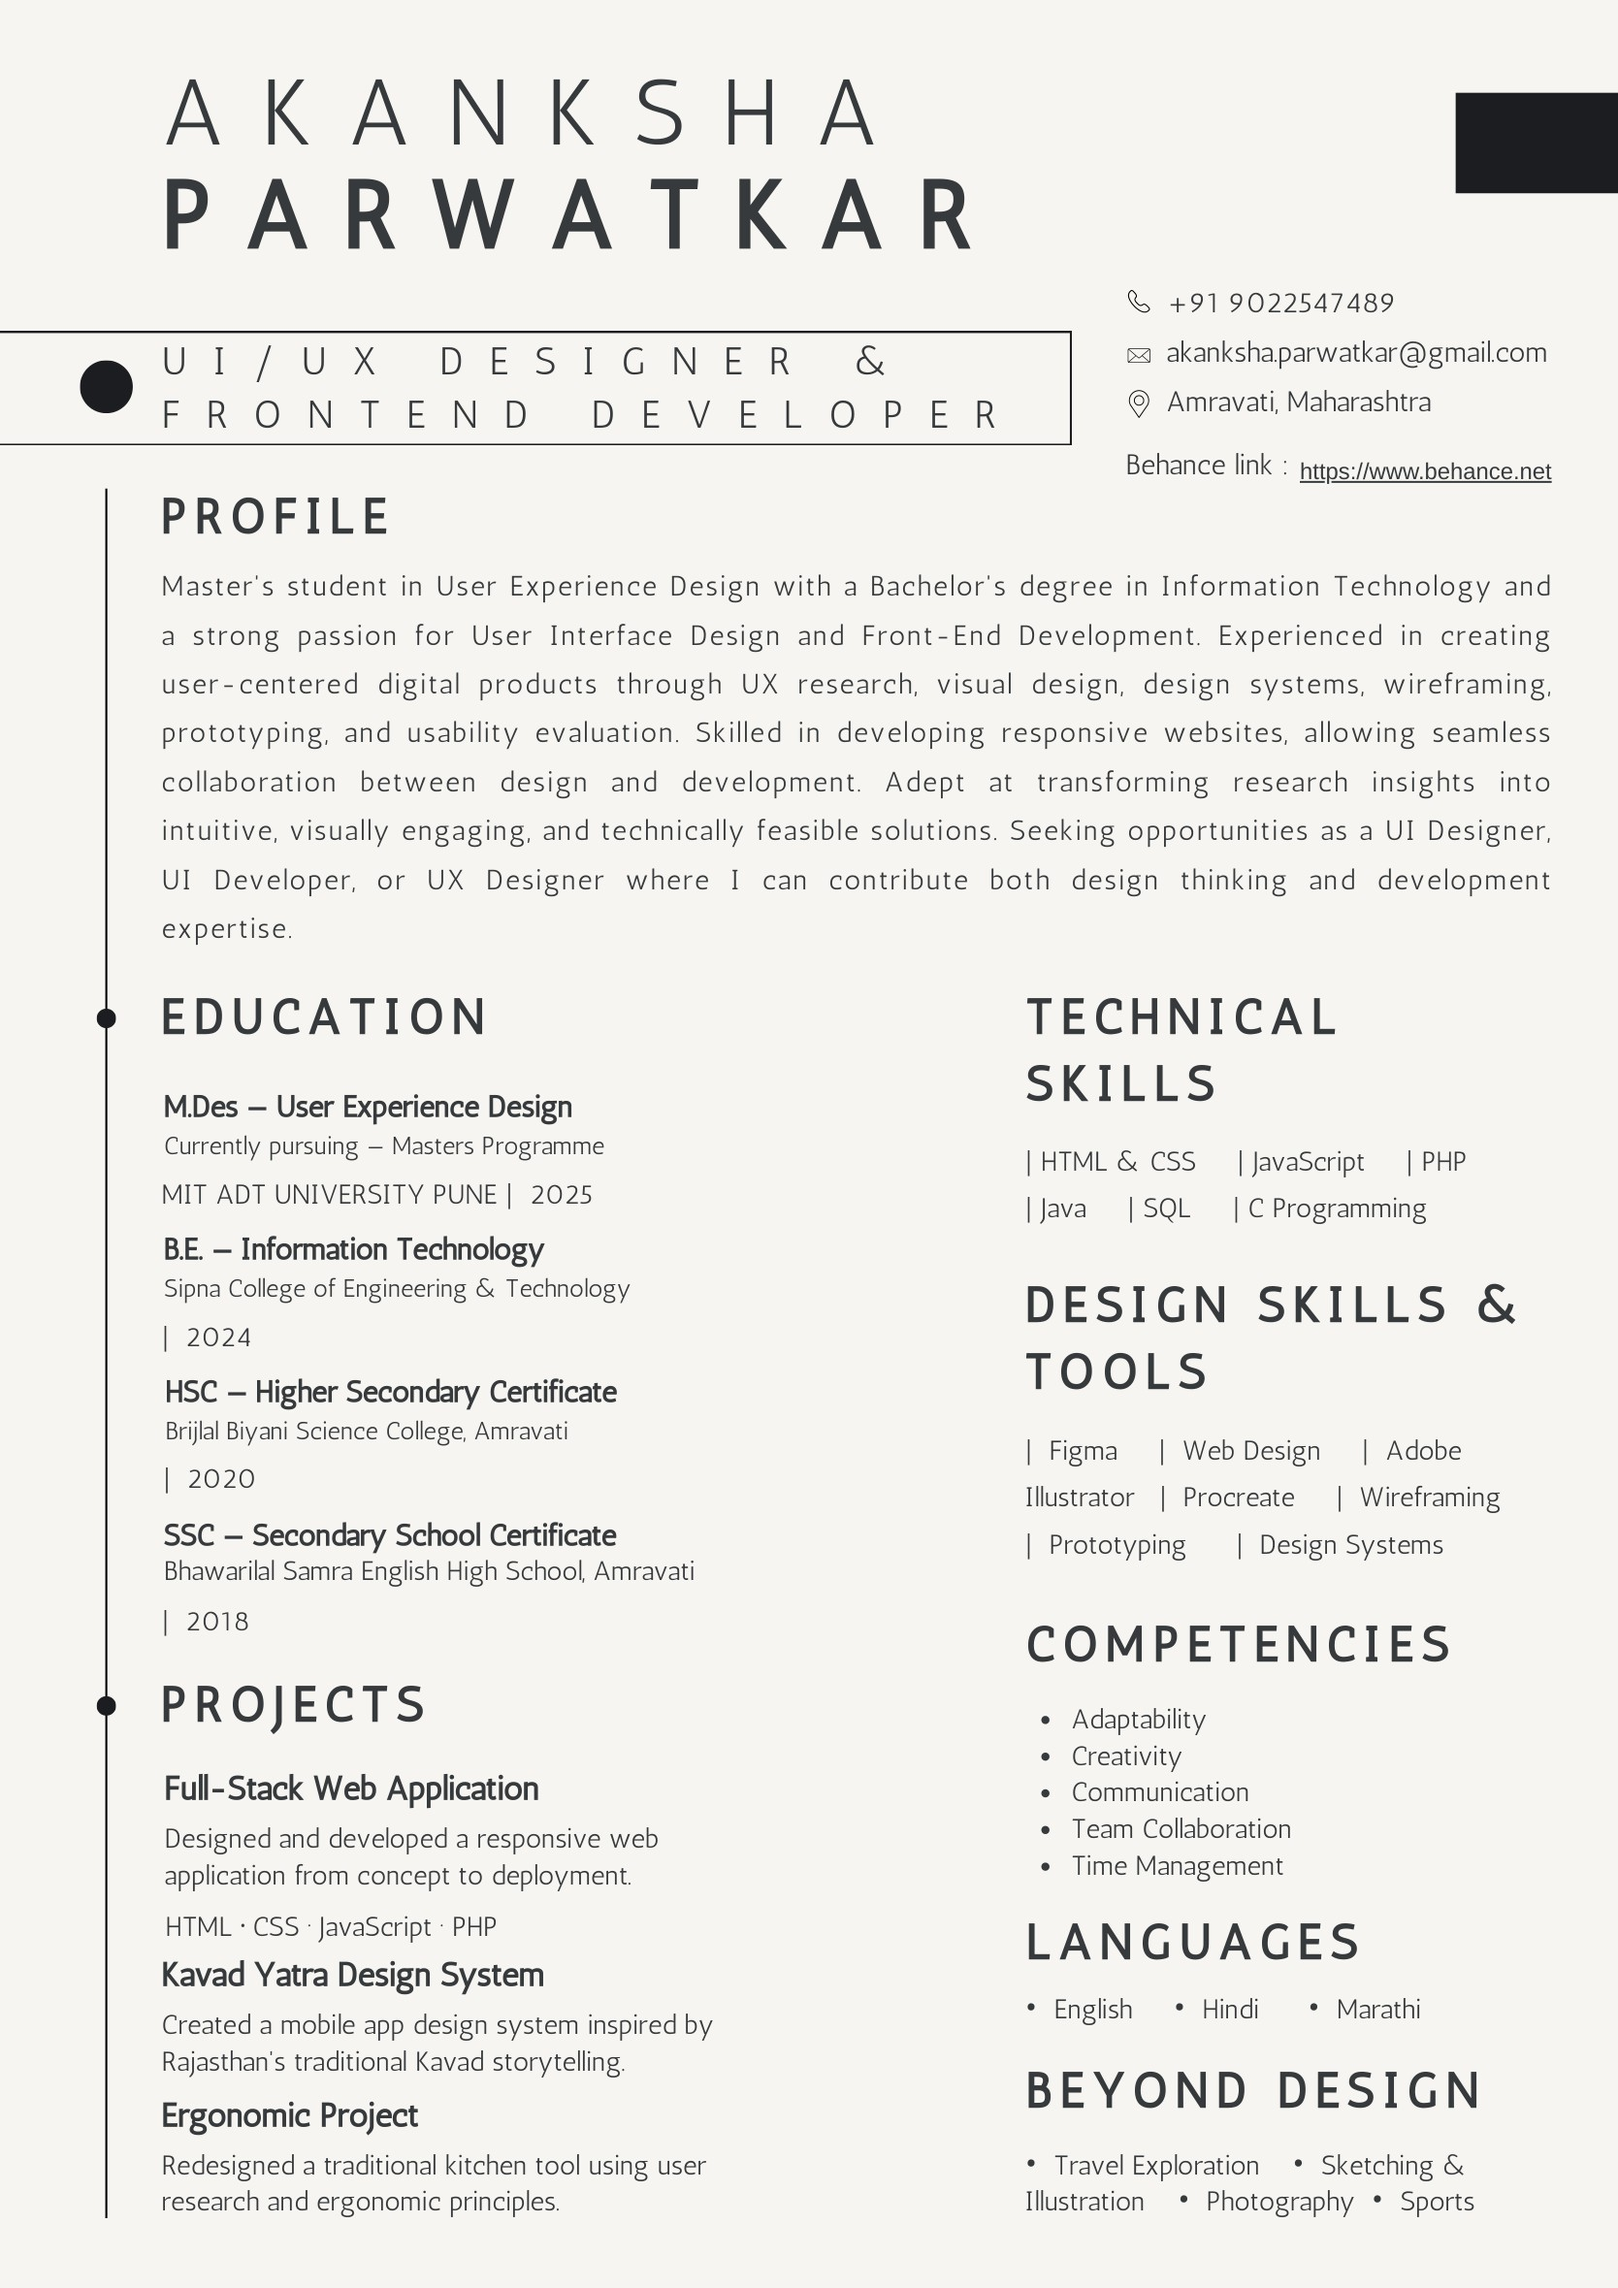
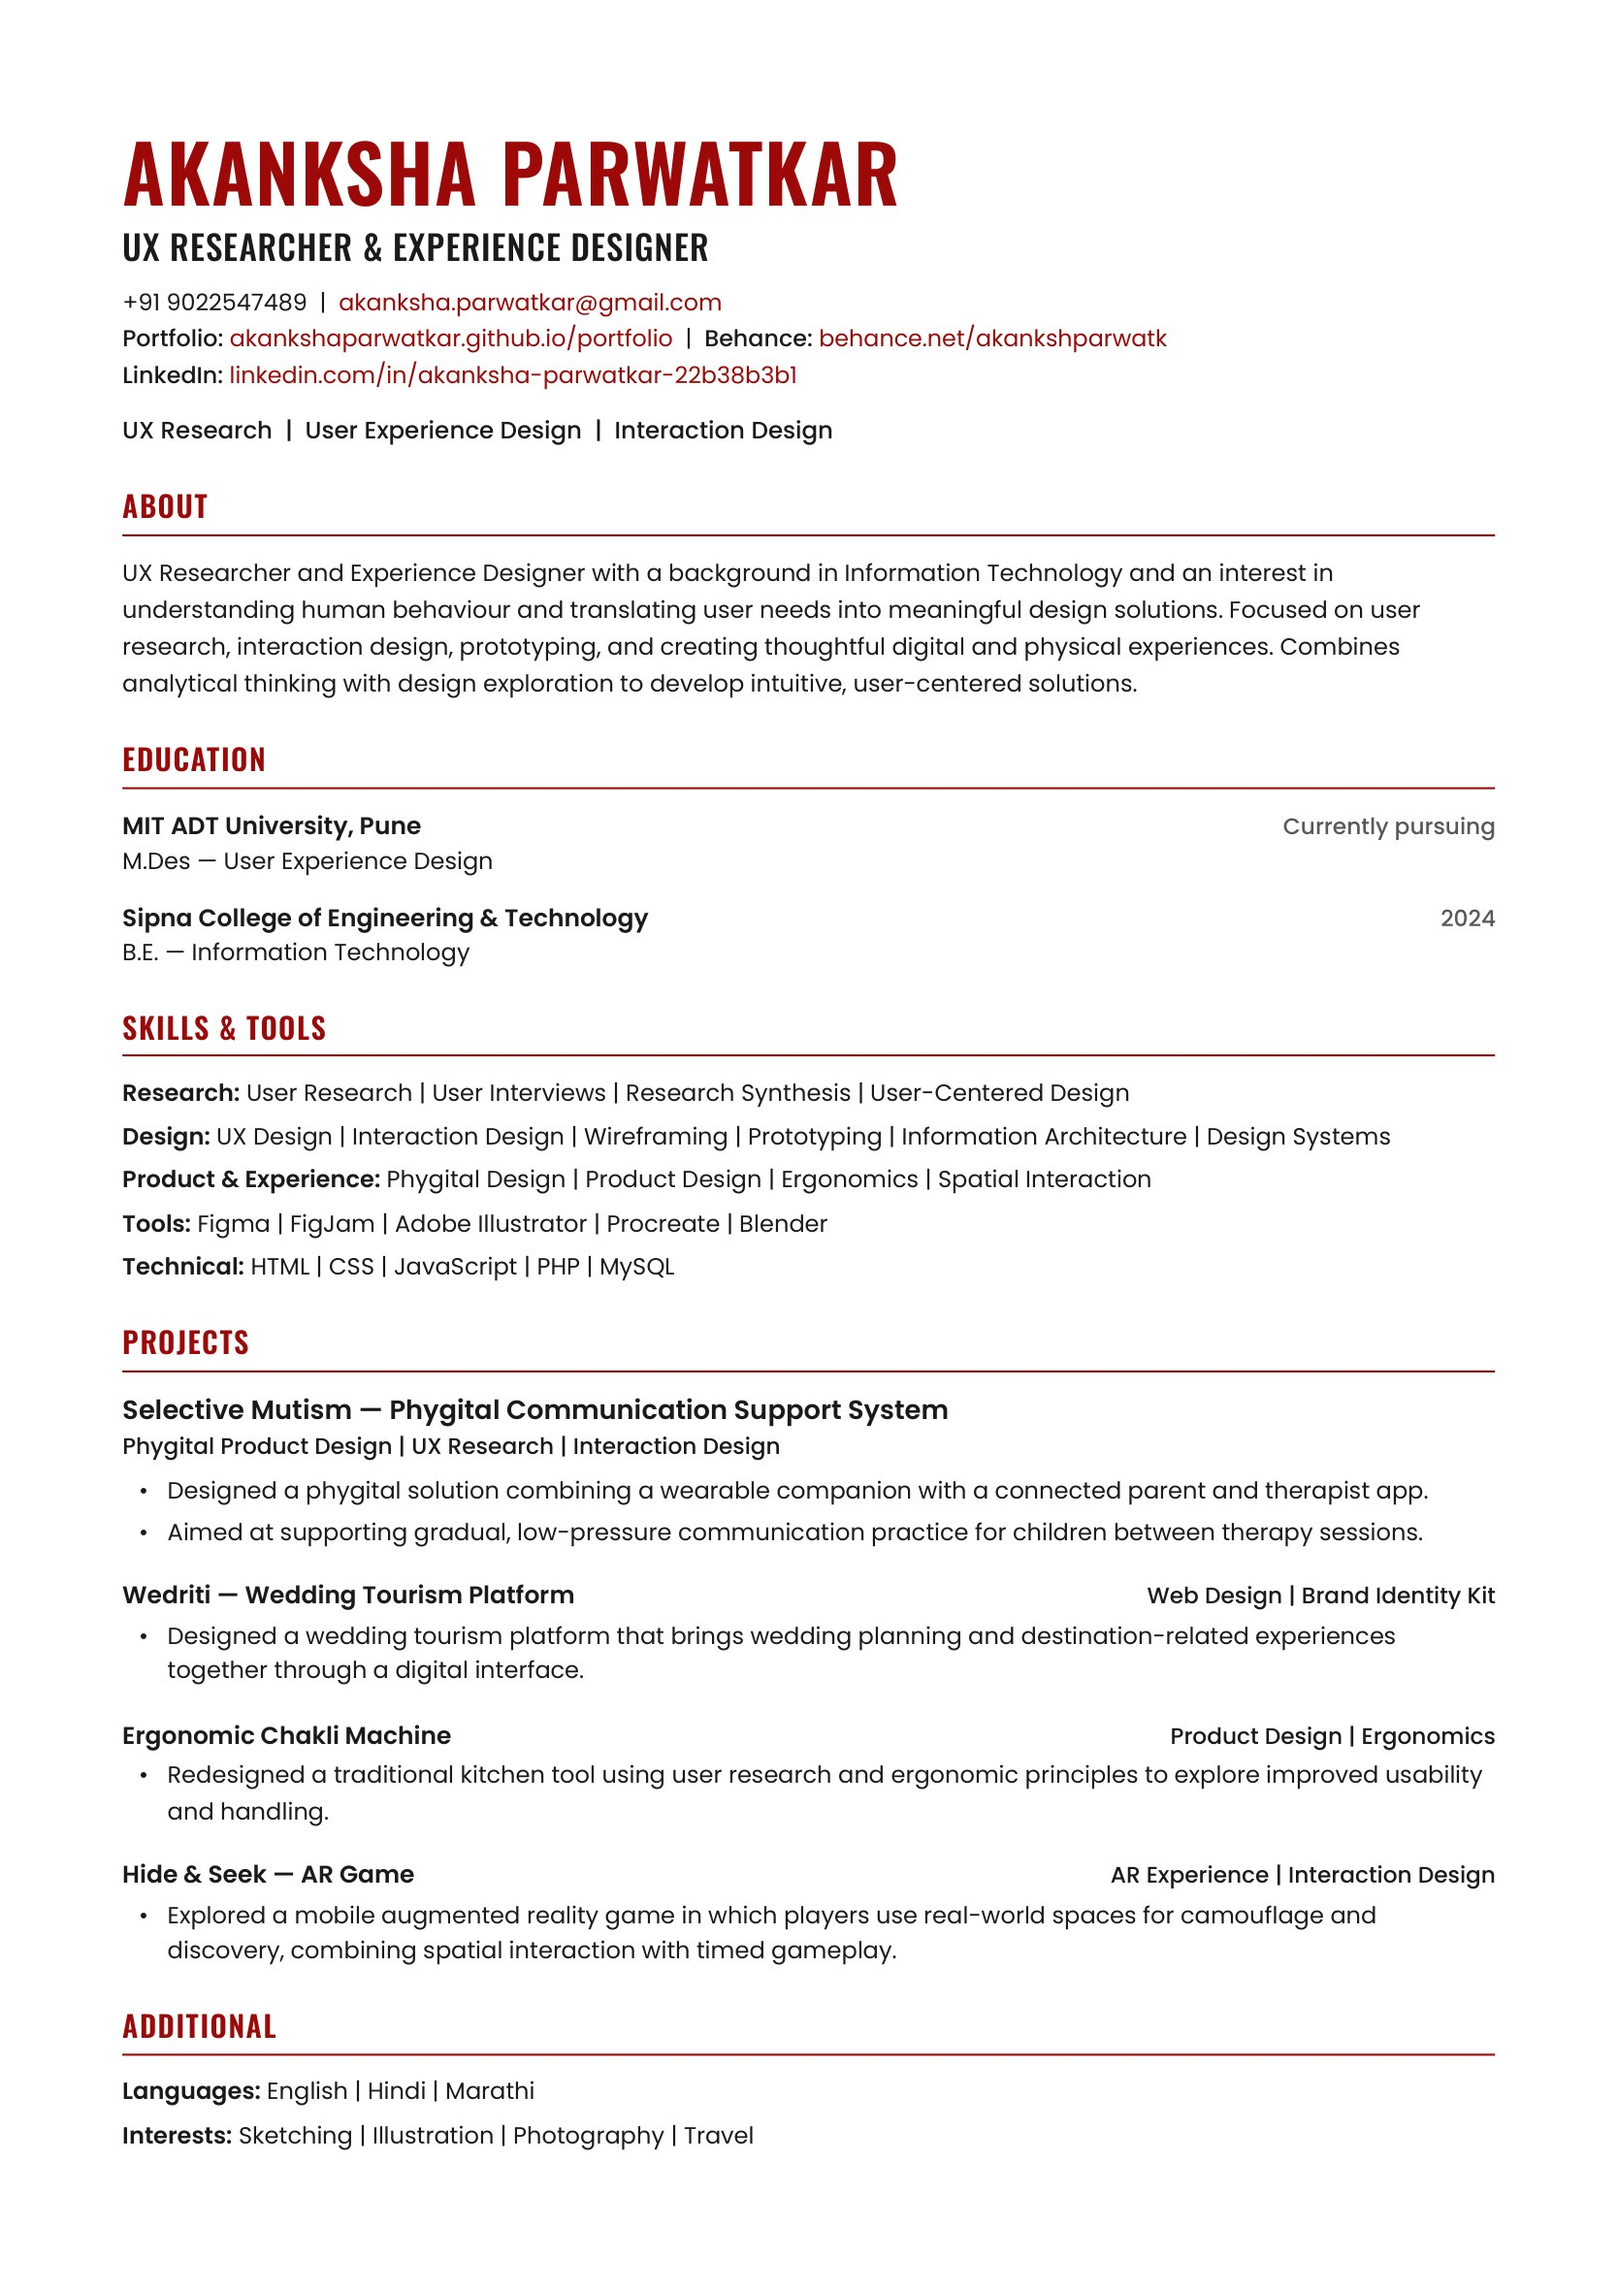
Replace the résumé with the new M.Des version

diff --git a/work/resume.html b/work/resume.html
@@ -4,7 +4,7 @@
 <meta charset="UTF-8">
 <meta name="viewport" content="width=device-width, initial-scale=1.0">
 <title>Résumé — Akanksha Parwatkar</title>
-<meta name="description" content="Akanksha Parwatkar — UX Designer & Frontend Developer. Education, skills, and experience.">
+<meta name="description" content="Akanksha Parwatkar, UX Researcher & Experience Designer. Education, skills, and projects.">
 
 <link rel="icon" type="image/png" href="../assets/favicon.png">
 <link rel="apple-touch-icon" href="../assets/favicon.png">
@@ -57,7 +57,7 @@
   </div>
 
   <div class="cs-gallery-slides">
-    <img src="../assets/work/resume/full.jpg" alt="Akanksha Parwatkar — résumé" width="1668" height="2359" loading="lazy">
+    <img src="../assets/work/resume/full.jpg" alt="Akanksha Parwatkar — résumé" width="1668" height="2361" loading="lazy">
   </div>
 
   <div class="cs-footer">
